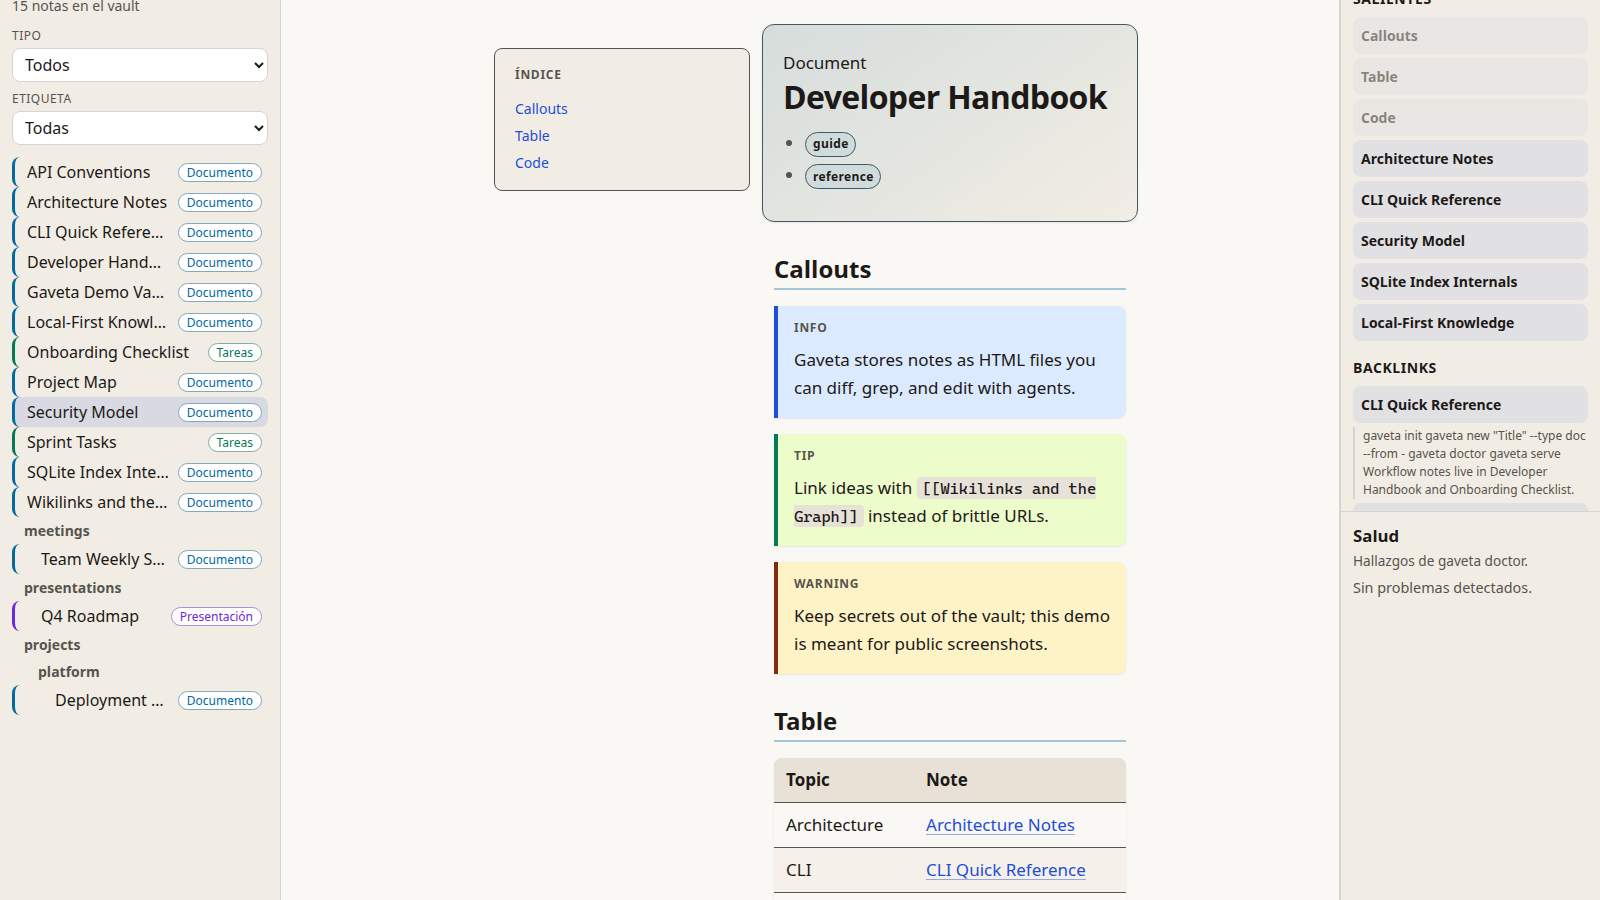
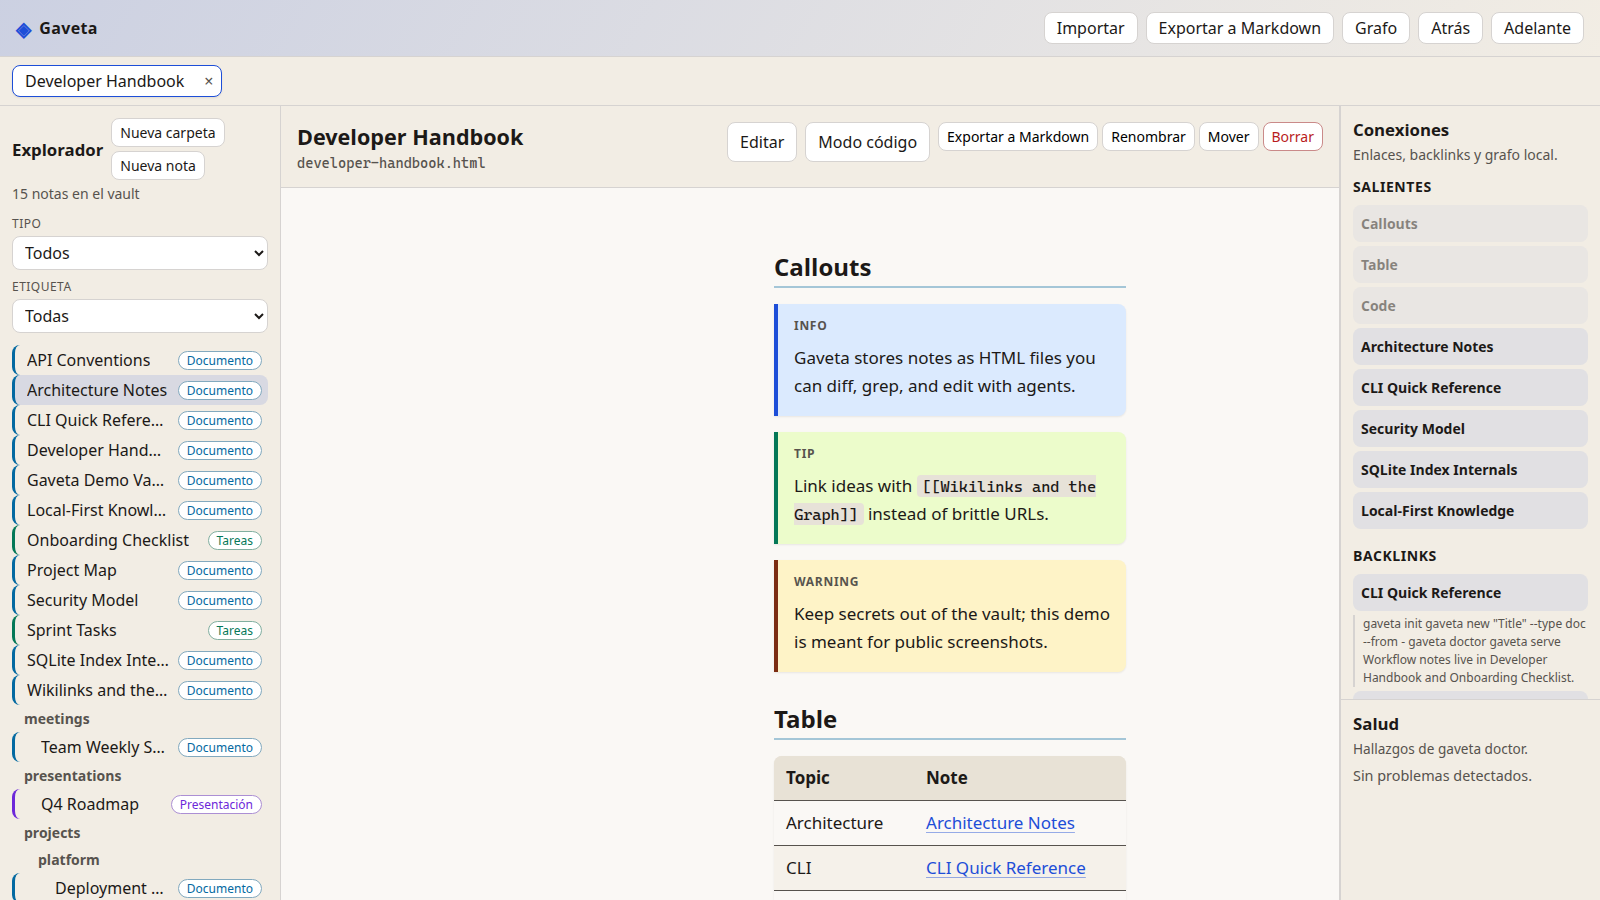
fix(screenshots): fit graph, defray labels, and frame at scroll top

diff --git a/scripts/capture-demo-graph.ts b/scripts/capture-demo-graph.ts
@@ -1,0 +1,274 @@
+import type { Page } from 'playwright';
+
+interface ClientRect {
+  readonly left: number;
+  readonly top: number;
+  readonly right: number;
+  readonly bottom: number;
+  readonly width: number;
+  readonly height: number;
+}
+
+interface GraphMetrics {
+  readonly minX: number;
+  readonly minY: number;
+  readonly maxX: number;
+  readonly maxY: number;
+  readonly canvas: ClientRect;
+}
+
+export async function waitForGlobalGraphReady(page: Page, globalGraphHeading: string): Promise<void> {
+  await page.getByRole('heading', { name: globalGraphHeading }).waitFor();
+  await page.locator('.graph-view__node').first().waitFor({ timeout: 30_000 });
+  await page.getByText('Preparando vista').waitFor({ state: 'hidden', timeout: 30_000 });
+  await page.getByText('Cargando grafo').waitFor({ state: 'hidden', timeout: 30_000 }).catch(() => {
+    /* already rendered */
+  });
+  await page.waitForTimeout(600);
+}
+
+async function readGraphMetrics(page: Page): Promise<GraphMetrics | null> {
+  return page.evaluate(() => {
+    const canvasEl = document.querySelector('.graph-view__canvas');
+    if (canvasEl === null) {
+      return null;
+    }
+    const canvas = canvasEl.getBoundingClientRect();
+    const targets = [
+      ...document.querySelectorAll('.graph-view__node'),
+      ...document.querySelectorAll('.graph-view__label'),
+    ];
+    if (targets.length === 0) {
+      return null;
+    }
+    let minX = Infinity;
+    let minY = Infinity;
+    let maxX = -Infinity;
+    let maxY = -Infinity;
+    for (const el of targets) {
+      const r = el.getBoundingClientRect();
+      minX = Math.min(minX, r.left);
+      minY = Math.min(minY, r.top);
+      maxX = Math.max(maxX, r.right);
+      maxY = Math.max(maxY, r.bottom);
+    }
+    return {
+      minX,
+      minY,
+      maxX,
+      maxY,
+      canvas: {
+        left: canvas.left,
+        top: canvas.top,
+        right: canvas.right,
+        bottom: canvas.bottom,
+        width: canvas.width,
+        height: canvas.height,
+      },
+    };
+  });
+}
+
+async function wheelZoomCanvas(
+  page: Page,
+  canvasCenterX: number,
+  canvasCenterY: number,
+  zoomIn: boolean,
+  steps: number,
+): Promise<void> {
+  const canvas = page.locator('.graph-view__canvas');
+  const box = await canvas.boundingBox();
+  if (box !== null) {
+    const localX = canvasCenterX - box.x;
+    const localY = canvasCenterY - box.y;
+    await canvas.hover({ position: { x: localX, y: localY } });
+  }
+  await page.mouse.move(canvasCenterX, canvasCenterY);
+  const delta = zoomIn ? -100 : 100;
+  for (let step = 0; step < steps; step += 1) {
+    await page.mouse.wheel(0, delta);
+    await page.waitForTimeout(25);
+  }
+}
+
+async function panCanvas(
+  page: Page,
+  fromX: number,
+  fromY: number,
+  toX: number,
+  toY: number,
+): Promise<void> {
+  await page.mouse.move(fromX, fromY);
+  await page.mouse.down();
+  await page.mouse.move(toX, toY, { steps: 12 });
+  await page.mouse.up();
+}
+
+/** Zoom and pan the global graph canvas so nodes fill ~fillRatio of the viewport. */
+export async function fitGlobalGraphView(page: Page, fillRatio = 0.8): Promise<void> {
+  const canvas = page.locator('.graph-view__canvas');
+  await canvas.waitFor();
+
+  for (let attempt = 0; attempt < 3; attempt += 1) {
+    const metrics = await readGraphMetrics(page);
+    if (metrics === null) {
+      throw new Error('global graph metrics unavailable');
+    }
+
+    const graphW = Math.max(metrics.maxX - metrics.minX, 1);
+    const graphH = Math.max(metrics.maxY - metrics.minY, 1);
+    const canvasCx = metrics.canvas.left + metrics.canvas.width / 2;
+    const canvasCy = metrics.canvas.top + metrics.canvas.height / 2;
+
+    const targetW = metrics.canvas.width * fillRatio;
+    const targetH = metrics.canvas.height * fillRatio;
+    const scale = Math.min(targetW / graphW, targetH / graphH);
+
+    if (scale > 1.04) {
+      const steps = Math.min(48, Math.ceil(Math.log(scale) / Math.log(1.1)));
+      await wheelZoomCanvas(page, canvasCx, canvasCy, true, steps);
+      await page.waitForTimeout(250);
+    } else if (scale < 0.96) {
+      const steps = Math.min(32, Math.ceil(Math.log(1 / scale) / Math.log(1.1)));
+      await wheelZoomCanvas(page, canvasCx, canvasCy, false, steps);
+      await page.waitForTimeout(250);
+    }
+
+    const afterZoom = await readGraphMetrics(page);
+    if (afterZoom === null) {
+      continue;
+    }
+    const nextCx = (afterZoom.minX + afterZoom.maxX) / 2;
+    const nextCy = (afterZoom.minY + afterZoom.maxY) / 2;
+    const dx = canvasCx - nextCx;
+    const dy = canvasCy - nextCy;
+    if (Math.hypot(dx, dy) > 4) {
+      await panCanvas(page, canvasCx, canvasCy, canvasCx + dx, canvasCy + dy);
+      await page.waitForTimeout(200);
+    }
+  }
+}
+
+/** Place labels outside the node cluster for the screenshot (DOM-only, ephemeral). */
+export async function spreadGraphLabelsRadially(page: Page): Promise<void> {
+  await page.evaluate(() => {
+    const groups = [...document.querySelectorAll('.graph-view__node-group')];
+    let sumX = 0;
+    let sumY = 0;
+    let count = 0;
+    for (const group of groups) {
+      const circle = group.querySelector('circle');
+      if (circle === null) {
+        continue;
+      }
+      sumX += Number.parseFloat(circle.getAttribute('cx') ?? '0');
+      sumY += Number.parseFloat(circle.getAttribute('cy') ?? '0');
+      count += 1;
+    }
+    const centerX = count === 0 ? 600 : sumX / count;
+    const centerY = count === 0 ? 400 : sumY / count;
+
+    for (const group of groups) {
+      const circle = group.querySelector('circle');
+      const text = group.querySelector('text');
+      if (circle === null || text === null) {
+        continue;
+      }
+      const cx = Number.parseFloat(circle.getAttribute('cx') ?? '0');
+      const cy = Number.parseFloat(circle.getAttribute('cy') ?? '0');
+      const angle = Math.atan2(cy - centerY, cx - centerX);
+      const offset = 22;
+      const labelX = cx + Math.cos(angle) * offset;
+      const labelY = cy + Math.sin(angle) * offset + 4;
+      text.setAttribute('x', String(labelX));
+      text.setAttribute('y', String(labelY));
+      text.setAttribute('text-anchor', Math.cos(angle) >= 0 ? 'start' : 'end');
+    }
+  });
+}
+
+/** Nudge SVG labels apart for the screenshot (does not persist; React owns the DOM). */
+export async function defrayGraphLabels(page: Page): Promise<void> {
+  await spreadGraphLabelsRadially(page);
+  await page.evaluate(() => {
+    const labels = [...document.querySelectorAll('.graph-view__label')];
+    const readRect = (el: Element): DOMRect => el.getBoundingClientRect();
+
+    const overlaps = (a: DOMRect, b: DOMRect): boolean =>
+      !(a.right < b.left || a.left > b.right || a.bottom < b.top || a.top > b.bottom);
+
+    for (let pass = 0; pass < 24; pass += 1) {
+      let moved = false;
+      for (let i = 0; i < labels.length; i += 1) {
+        for (let j = i + 1; j < labels.length; j += 1) {
+          const left = labels[i] as SVGTextElement;
+          const right = labels[j] as SVGTextElement;
+          const a = readRect(left);
+          const b = readRect(right);
+          if (!overlaps(a, b)) {
+            continue;
+          }
+          const dy = a.bottom - b.top + 2;
+          const y = Number.parseFloat(right.getAttribute('y') ?? '0');
+          right.setAttribute('y', String(y + dy));
+          moved = true;
+        }
+      }
+      if (!moved) {
+        break;
+      }
+    }
+
+    for (let pass = 0; pass < 12; pass += 1) {
+      let moved = false;
+      for (let i = 0; i < labels.length; i += 1) {
+        for (let j = i + 1; j < labels.length; j += 1) {
+          const left = labels[i] as SVGTextElement;
+          const right = labels[j] as SVGTextElement;
+          const a = readRect(left);
+          const b = readRect(right);
+          if (!overlaps(a, b)) {
+            continue;
+          }
+          const shift = j % 2 === 0 ? -14 : 14;
+          const x = Number.parseFloat(right.getAttribute('x') ?? '0');
+          right.setAttribute('x', String(x + shift));
+          moved = true;
+        }
+      }
+      if (!moved) {
+        break;
+      }
+    }
+  });
+  await page.waitForTimeout(100);
+}
+
+export async function countOverlappingGraphLabels(page: Page): Promise<number> {
+  return page.evaluate(() => {
+    const labels = [...document.querySelectorAll('.graph-view__label')];
+    let pairs = 0;
+    for (let i = 0; i < labels.length; i += 1) {
+      for (let j = i + 1; j < labels.length; j += 1) {
+        const a = labels[i].getBoundingClientRect();
+        const b = labels[j].getBoundingClientRect();
+        if (!(a.right < b.left || a.left > b.right || a.bottom < b.top || a.top > b.bottom)) {
+          pairs += 1;
+        }
+      }
+    }
+    return pairs;
+  });
+}
+
+export async function scrollApplicationToTop(page: Page): Promise<void> {
+  await page.evaluate(() => {
+    window.scrollTo(0, 0);
+    const selectors = ['.explorer', '.connections', '.health', '.shell__main', '.note-pane', '.visual-editor__content'];
+    for (const selector of selectors) {
+      for (const el of document.querySelectorAll(selector)) {
+        el.scrollTop = 0;
+      }
+    }
+  });
+}

diff --git a/scripts/capture-demo-screenshots.ts b/scripts/capture-demo-screenshots.ts
@@ -9,6 +9,13 @@ import {
   UI_BY_LANG,
   type CaptureLang,
 } from './capture-demo-locale.ts';
+import {
+  countOverlappingGraphLabels,
+  defrayGraphLabels,
+  fitGlobalGraphView,
+  scrollApplicationToTop,
+  waitForGlobalGraphReady,
+} from './capture-demo-graph.ts';
 
 const REPO_ROOT = join(import.meta.dirname, '..');
 const GAVETA_BIN = join(REPO_ROOT, 'packages/cli/bin/gaveta.js');
@@ -94,7 +101,11 @@ async function captureScreenshots(lang: CaptureLang): Promise<void> {
     });
     const short = language.split('-')[0] ?? language;
     const applyHtmlLang = (): void => {
-      document.documentElement.lang = short;
+      try {
+        document.documentElement.lang = short;
+      } catch {
+        /* subframe or empty document during navigation */
+      }
     };
     applyHtmlLang();
     document.addEventListener('DOMContentLoaded', applyHtmlLang, { once: true });
@@ -112,7 +123,20 @@ async function captureScreenshots(lang: CaptureLang): Promise<void> {
   await page.getByRole('navigation', { name: ui.explorerNav }).waitFor();
 
   await page.goto(`${origin}/grafo`, { waitUntil: 'networkidle' });
-  await page.getByRole('heading', { name: ui.globalGraphHeading }).waitFor();
+  await waitForGlobalGraphReady(page, ui.globalGraphHeading);
+  await fitGlobalGraphView(page, 0.82);
+  await defrayGraphLabels(page);
+  let overlapPairs = await countOverlappingGraphLabels(page);
+  if (overlapPairs > 0) {
+    await fitGlobalGraphView(page, 0.88);
+    await defrayGraphLabels(page);
+    overlapPairs = await countOverlappingGraphLabels(page);
+  }
+  if (overlapPairs > 0) {
+    await fitGlobalGraphView(page, 0.92);
+    await defrayGraphLabels(page);
+  }
+  await scrollApplicationToTop(page);
   await page.screenshot({ path: join(ASSETS_DIR, 'screenshot-graph.png') });
 
   await page.getByRole('button', { name: ui.notesButton }).click();
@@ -124,13 +148,32 @@ async function captureScreenshots(lang: CaptureLang): Promise<void> {
   await page.locator('[data-testid="note-meta-panel"]').evaluate((el) => {
     el.style.display = 'none';
   });
-  await page.locator('[data-testid="note-render-frame"]').scrollIntoViewIfNeeded();
+  await scrollApplicationToTop(page);
+  await renderFrame.locator('body').evaluate((body) => {
+    const view = body.ownerDocument.defaultView;
+    if (view === null) {
+      return;
+    }
+    view.scrollTo(0, 0);
+    body.querySelector('nav.toc')?.remove();
+    body.querySelector('header.note-header')?.remove();
+    const callouts = body.querySelector('section#callouts');
+    const table = body.querySelector('section#table');
+    if (callouts instanceof HTMLElement && table instanceof HTMLElement) {
+      const blockBottom = table.offsetTop + table.offsetHeight;
+      if (blockBottom > view.innerHeight) {
+        view.scrollTo(0, Math.max(0, callouts.offsetTop - 8));
+      }
+    }
+  });
+  await scrollApplicationToTop(page);
   await page.screenshot({ path: join(ASSETS_DIR, 'screenshot-note.png') });
 
   await page.getByTestId('explorer-note-local-first-knowledge.html').click();
   await page.getByRole('heading', { name: 'Local-First Knowledge', level: 1 }).waitFor();
   await page.getByTestId('note-edit-button').click();
   await page.getByTestId('visual-editor-surface').waitFor({ timeout: 30_000 });
+  await scrollApplicationToTop(page);
   await page.screenshot({ path: join(ASSETS_DIR, 'screenshot-editor.png') });
 
   for (const name of SCREENSHOTS) {
